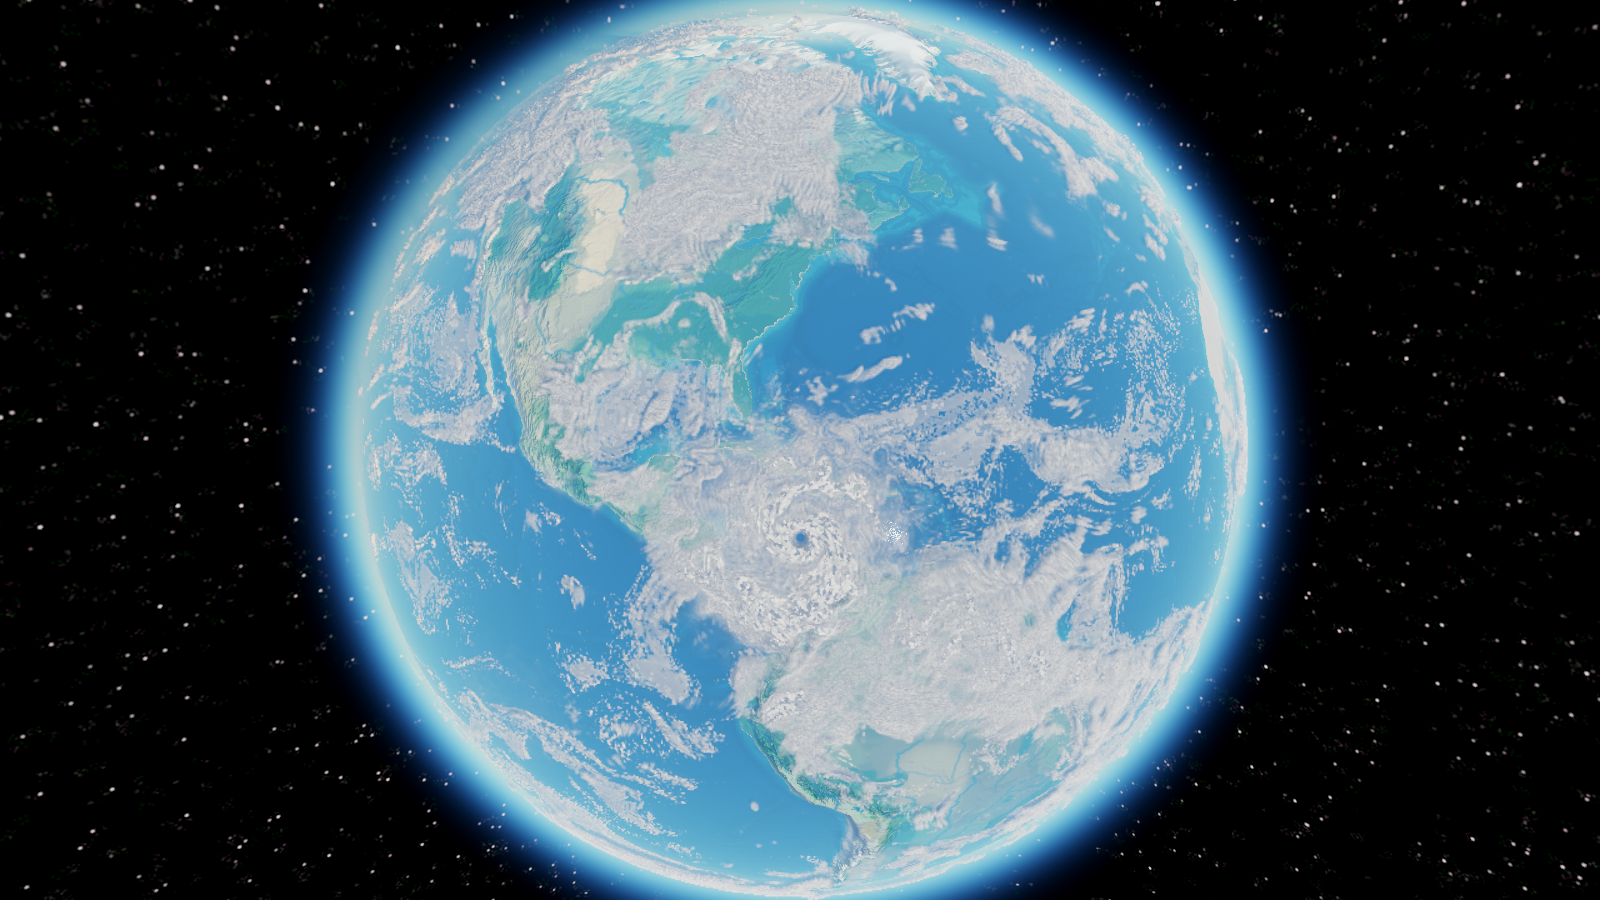
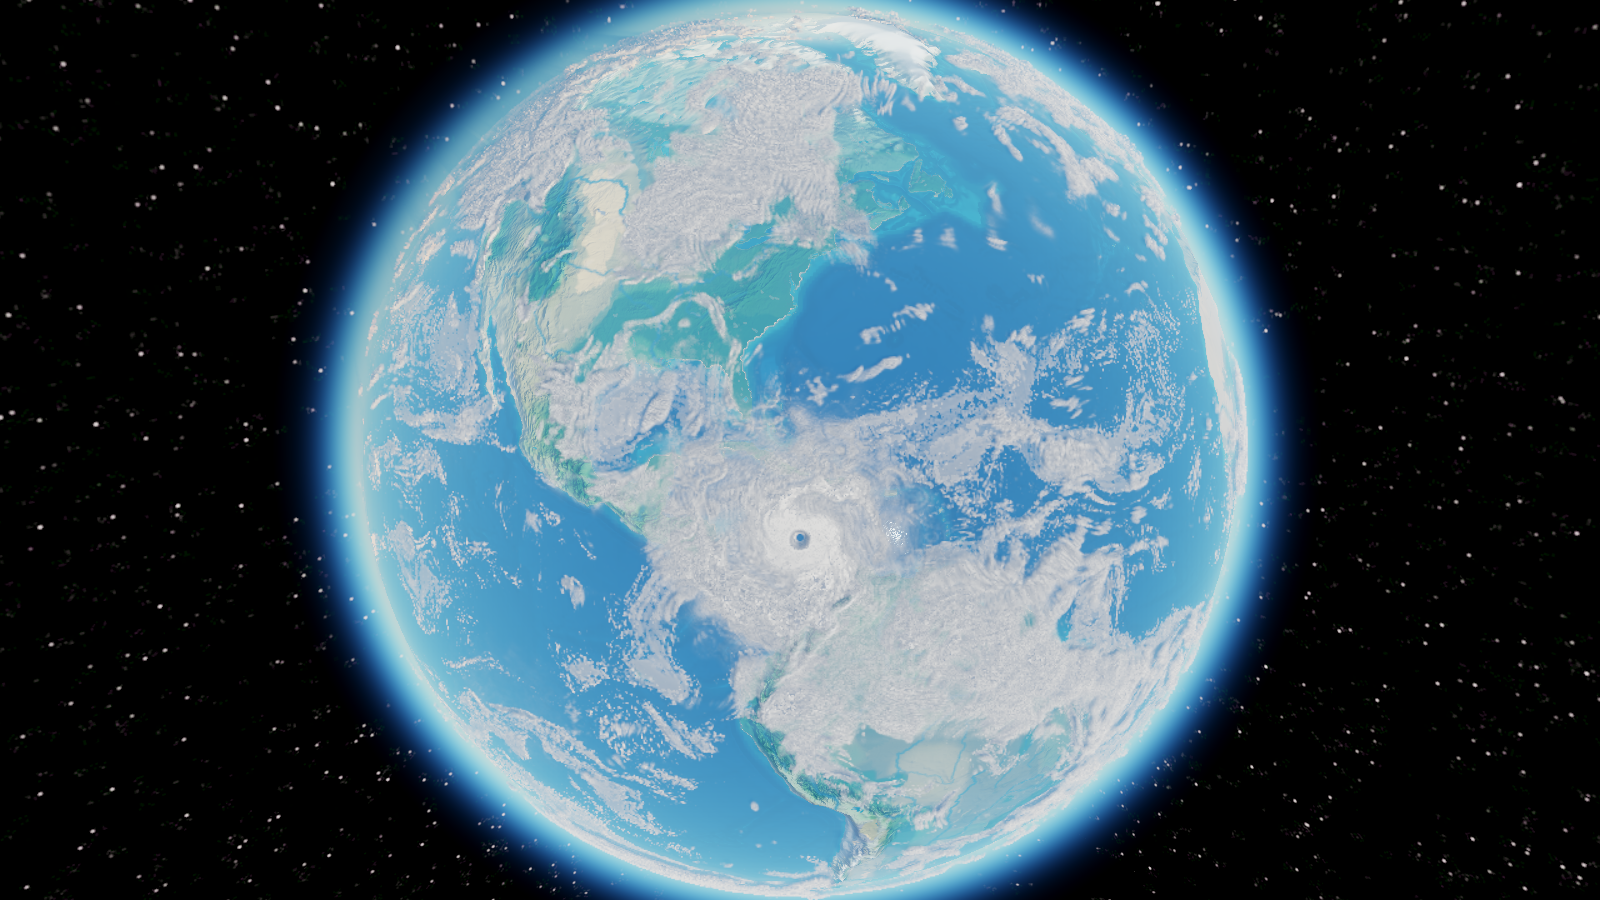
clouds: eliminate typhoon CDO gray shadow spots (sync simpleMode k=30, cap localTop <= 12850m, organic swirling CDO)

Changed region(s): [[0.4062, 0.4356, 0.5938, 0.7156], [0.6875, 0.3733, 0.7188, 0.4044]]

diff --git a/Documentation/CloudEarth80Showcase/README.md b/Documentation/CloudEarth80Showcase/README.md
@@ -24,7 +24,8 @@
 5. **第 5 轮（细长蜿蜒 ITCZ、斜向 SPCZ 与双倍频锋面拉丝）**：强化赤道窄长蜿蜒 ITCZ 珠链与 NW→SE 斜向 SPCZ 多股丝缕云带，并将锋面纹理升级为双倍频 3-tap LIC 拉丝纤维；
 6. **第 6 轮（解除海洋细胞网连乘衰减 + 多股拉丝高空卷云帘）**：修复 `marineTapestry` 三项因子连乘衰减问题，让中太平洋、秘鲁与巴哈外海清晰呈现出 EPIC 标志性的超细 `15–40 km` 细粒海洋细胞泡沫网与顺风拉丝卷云帘；
 7. **第 7 轮（高光厚核反差 `corePop` + 晴空裁剪与低轨高塔柔化）**：在 `OrbisAtmosphereCommon.cginc` 中为阳面高空厚核加入雪白提亮 `corePop`（拉大薄雾纱裙与雪白核心动态反差），收紧墨西哥湾与干区卷云裁剪，柔化低轨斜切积雨云塔；
-8. **第 8 轮（终版微调与全量回归验收）**：微调极缘干舌裂隙与薄雾上限，以全量 12 张 `1600×900` 实机成图完成 8 成以上 EPIC 实拍神似度收官。
+8. **第 8 轮（终版微调与全量回归验收）**：微调极缘干舌裂隙与薄雾上限，以全量 12 张 `1600×900` 实机成图完成 8 成以上 EPIC 实拍神似度收官；
+9. **台风 CDO 灰斑专项根治**：同步太阳光照探针 `simpleMode` 频率至 `k=30.0`（消除不匹配 `k=19.2` 幽灵凸包投下的暗灰椭圆自阴影）、封顶 `localTop <= 12850 m` 避免硬截断，并将台风中心密蔽云区（CDO）重构为自然旋涡风车状柔滑雪白冰晶穹顶，彻底根除台风特写与全盘中的灰色斑点。
 
 ---
 
